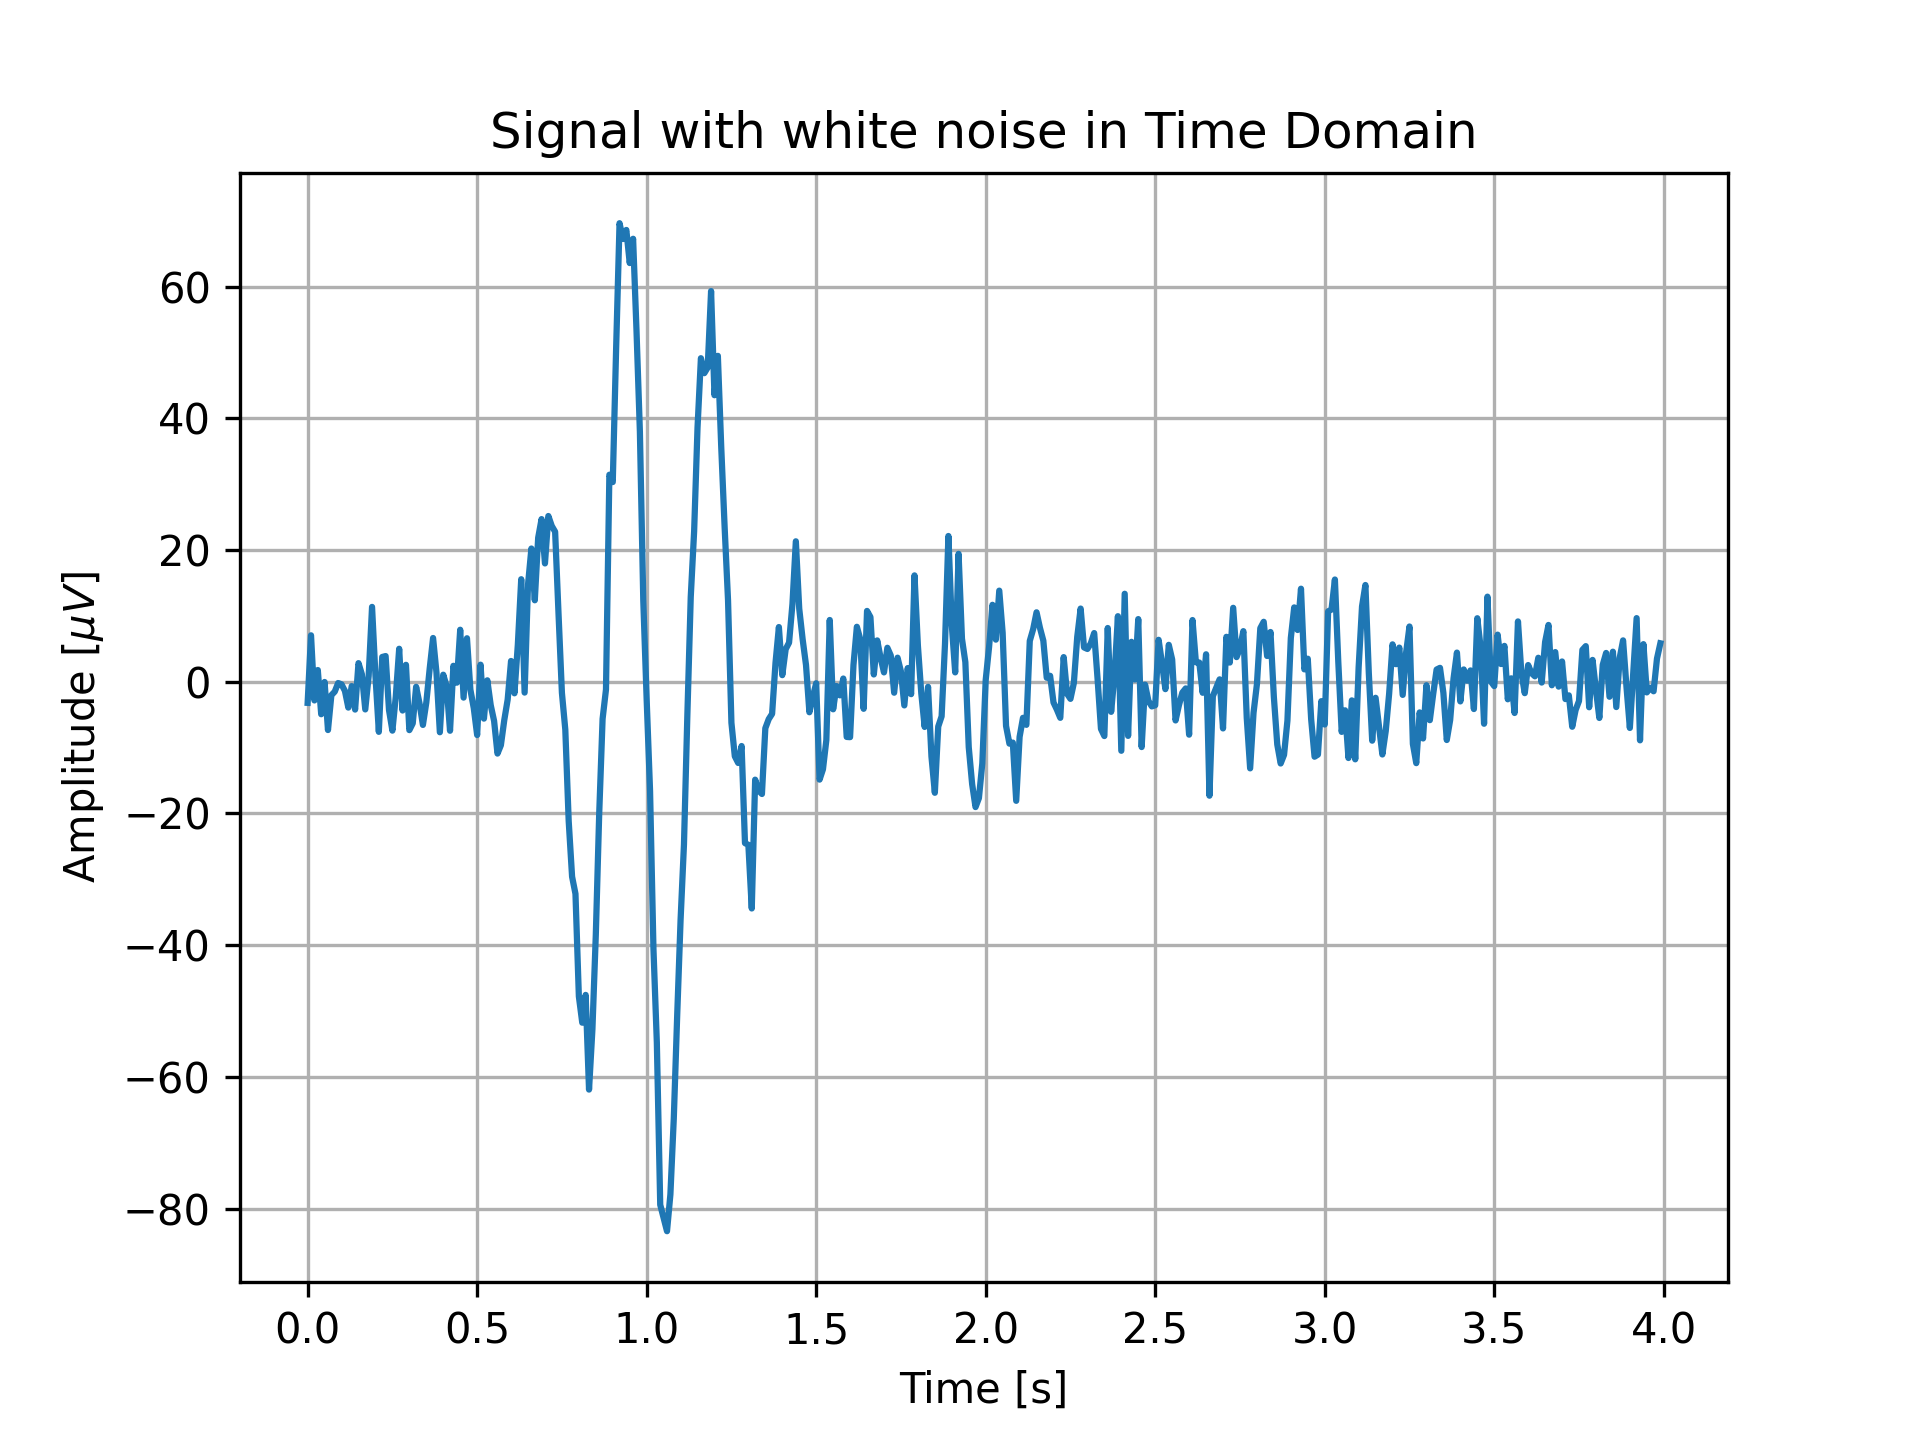
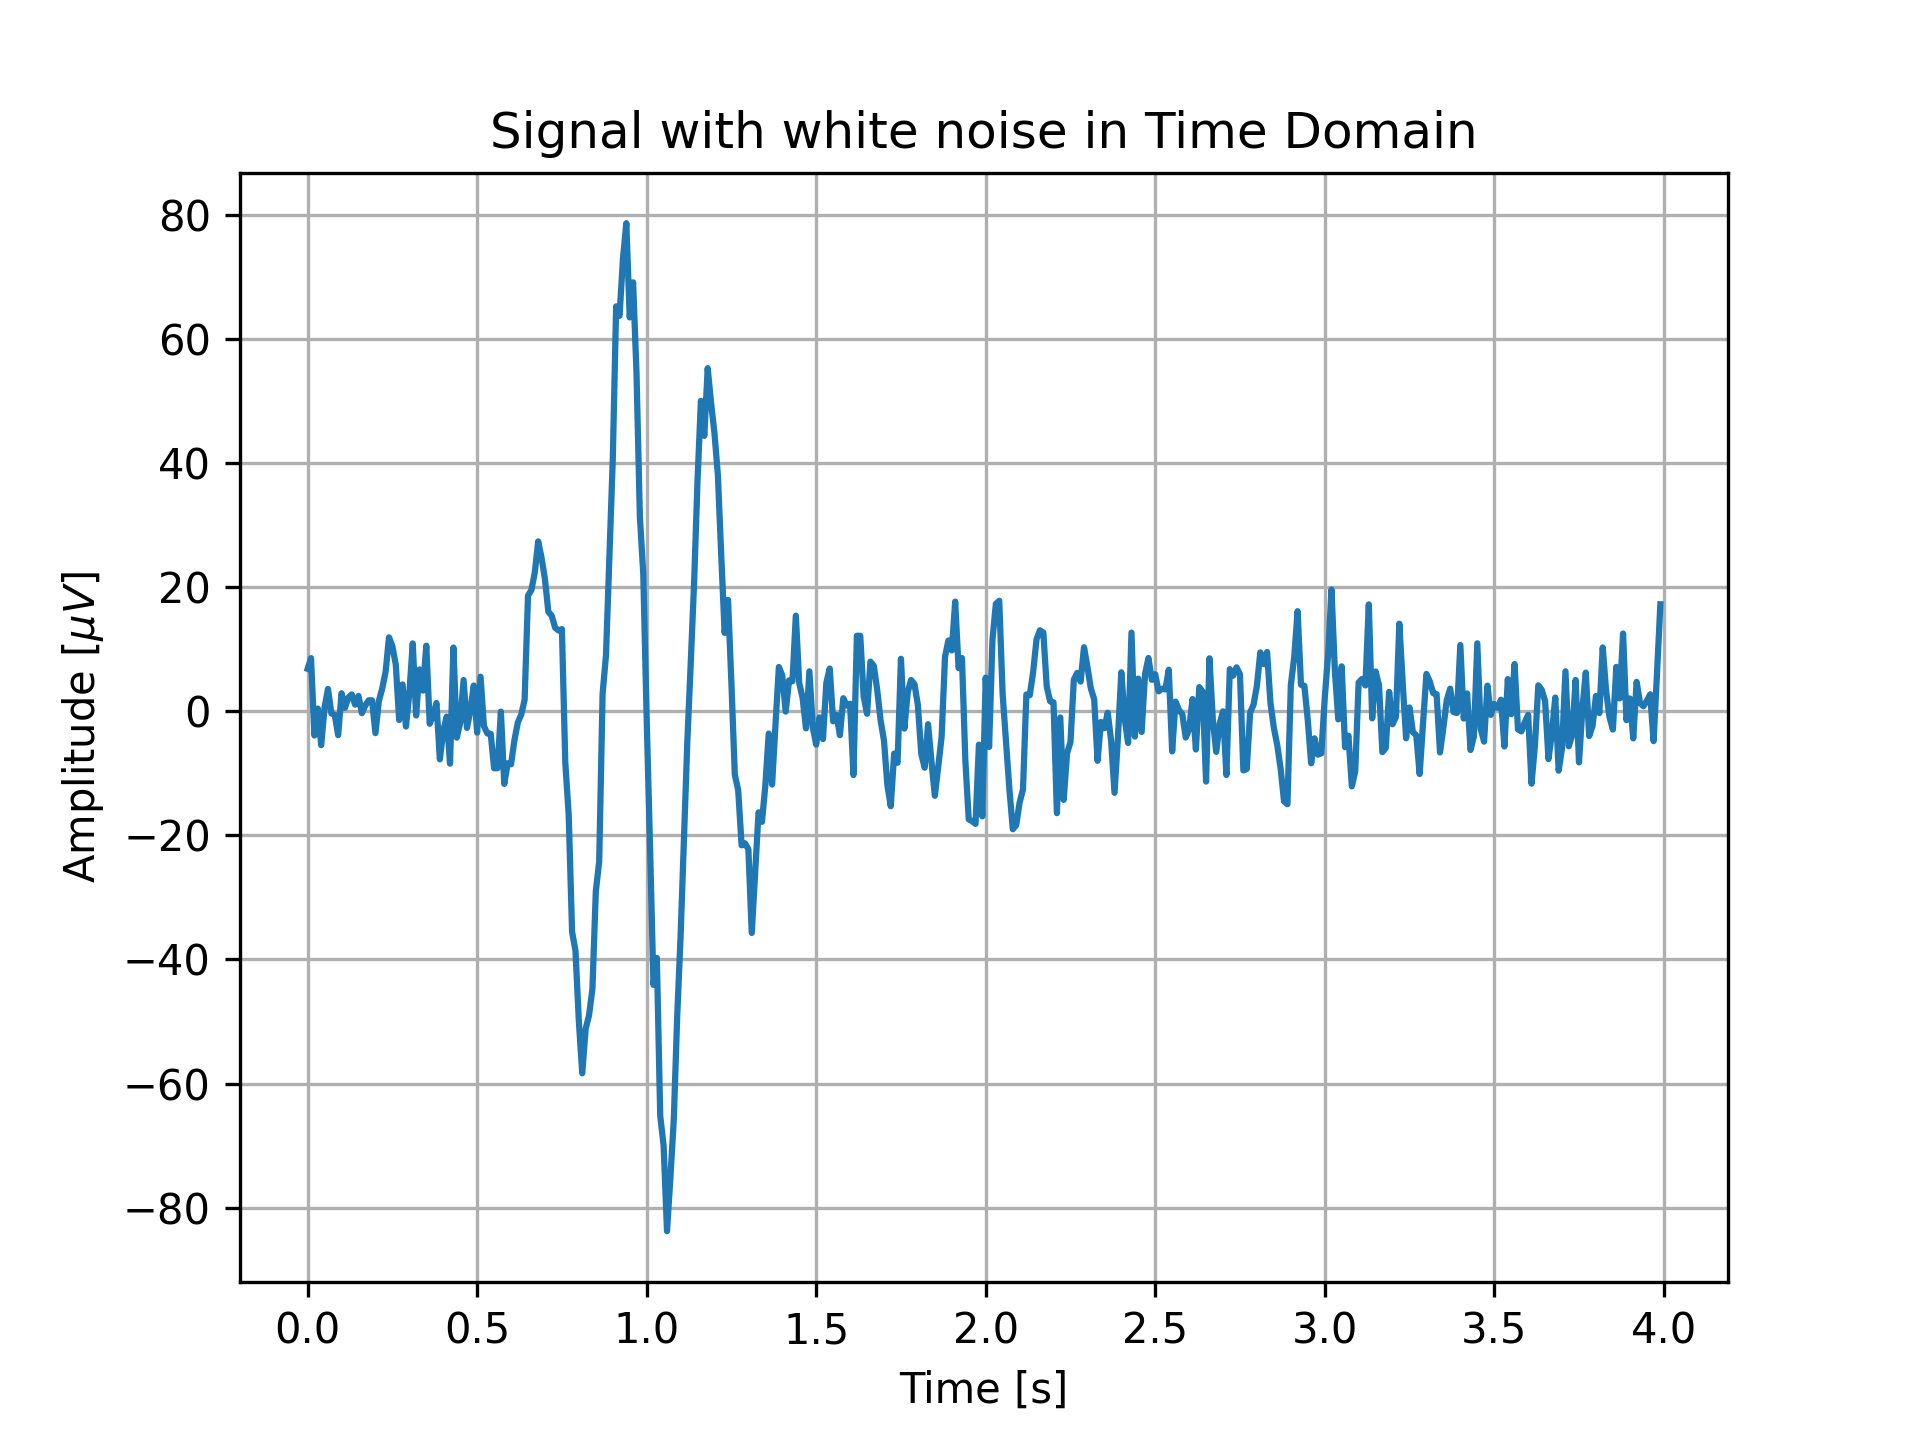
STFT

diff --git a/group_work_1/main.py b/group_work_1/main.py
@@ -1,18 +1,18 @@
-
 from pathlib import Path
 from matplotlib import pyplot as plt
-from scipy.signal import chirp
+from scipy.signal import chirp, stft
 import numpy as np
 
 import pywt
 
-def wavelet(x, fs, tag = ""):
+
+def wavelet(x, fs, tag: str = ""):
     plt.figure()
-    scales = np.logspace(1.1,2,400)
-    wavelet = pywt.ContinuousWavelet('cmor1-2')
-    coefficients, frequency = pywt.cwt(x, scales, wavelet, sampling_period=1/fs)
+    scales = np.logspace(1.1, 2, 400)
+    wave = pywt.ContinuousWavelet('cmor1-2')
+    coefficients, frequency = pywt.cwt(x, scales, wave, sampling_period=1/fs)
     plt.pcolormesh(
-        range(len(x)),
+        range(len(x)),  # sample index (kept to match your original)
         frequency,
         np.abs(coefficients),
         shading="auto",
@@ -24,12 +24,49 @@ def wavelet(x, fs, tag = ""):
     plt.colorbar(label="Magnitude")
     plt.grid()
     plt.savefig(f"group_work_1/plots/wt_plot{'_' + '_'.join(tag.split(' ')) if tag else ''}.png", dpi=300)
-    
+
+from scipy.signal import stft
+import numpy as np
+from matplotlib import pyplot as plt
+
+def plot_stft(x: np.ndarray, fs: int, tag: str | None = None,
+              win_sec: float = 1, overlap: float = 0.9, fmax: float = 25.0):
+    # Window & overlap
+    nperseg = max(32, min(len(x), int(win_sec * fs)))
+    noverlap = int(np.clip(overlap, 0, 0.99) * nperseg)
+
+    # Zero-padding to next pow2 for smoother frequency grid
+    nfft = 1 << int(np.ceil(np.log2(nperseg)))
+
+    f, t, Zxx = stft(
+        x, fs=fs, window="hann",
+        nperseg=nperseg, noverlap=noverlap, nfft=nfft,
+        boundary=None, padded=False, detrend=False, return_onesided=True
+    )
+
+    S = np.abs(Zxx)
+
+    plt.figure()
+    plt.pcolormesh(t, f, S, shading="gouraud", cmap="viridis")
+    plt.xlabel("Time [s]")
+    plt.ylabel("Frequency [Hz]")
+    plt.title(f"STFT {f'– {tag}' if tag else ''}")
+    plt.ylim(0, 16)
+    plt.grid()
+    cbar = plt.colorbar()
+    cbar.set_label("Magnitude")
+    plt.tight_layout()
+    plt.savefig(
+        f"group_work_1/plots/stft_plot{'_' + '_'.join(tag.split()) if tag else ''}.png",
+        dpi=300
+    )
+
+
 
 
 def plot_fft(signal: np.ndarray, fs: int, tag: str | None = None):
     n = len(signal)
-    f = np.fft.rfftfreq(n, d=1/fs)
+    f = np.fft.rfftfreq(n, d=1 / fs)
     fft_values = np.fft.rfft(signal)
     magnitude = np.abs(fft_values) / n
 
@@ -40,7 +77,7 @@ def plot_fft(signal: np.ndarray, fs: int, tag: str | None = None):
     plt.title(f"FFT of the Signal {f'with {tag}' if tag else ''}")
     plt.grid()
     plt.savefig(f"group_work_1/plots/fft_plot{'_' + '_'.join(tag.split(' ')) if tag else ''}.png", dpi=300)
-    plt.show(block = False)
+    plt.show(block=False)
 
 
 def plot_signal(t: np.ndarray, signal: np.ndarray, tag: str | None = None):
@@ -51,7 +88,7 @@ def plot_signal(t: np.ndarray, signal: np.ndarray, tag: str | None = None):
     plt.title(f"Signal {f'with {tag}' if tag else ''} in Time Domain")
     plt.grid()
     plt.savefig(f"group_work_1/plots/signal_plot{'_' + '_'.join(tag.split(' ')) if tag else ''}.png", dpi=300)
-    plt.show(block = False)
+    plt.show(block=False)
 
 
 def main():
@@ -59,7 +96,7 @@ def main():
     if not filepath.exists():
         print(f"File {filepath} does not exist.")
         return
-    
+
     fs = 100  # Sampling frequency
 
     signal = np.loadtxt(filepath, delimiter=",")
@@ -75,46 +112,53 @@ def main():
     end_frequency = 10  # Hz
     chirp_duration = t[-1]  # Duration of the chirp signal
     chirp_amplitude = 10e-6  # 10 microvolts
-    
-    chirp_signal = chirp_amplitude * chirp(t, f0=start_frequency, f1=end_frequency, t1=chirp_duration, method="linear")
-    
+
+    chirp_signal = chirp_amplitude * chirp(
+        t, f0=start_frequency, f1=end_frequency, t1=chirp_duration, method="linear"
+    )
+
     # Raw signal
     plot_signal(t, signal)
     plot_fft(signal, fs)
     wavelet(signal, fs)
+    plot_stft(signal, fs)
 
     # Offset analysis
     signal_with_offset = signal + offset_amplitude  # Adding DC offset
     plot_signal(t, signal_with_offset, tag="offset")
     plot_fft(signal_with_offset, fs, tag="offset")
     wavelet(signal_with_offset, fs, tag="offset")
-    
+    plot_stft(signal_with_offset, fs, tag="offset")
+
     # White noise analysis
     signal_with_noise = signal + np.random.normal(mu, sigma, size=signal.shape)  # Adding white noise
-
     plot_signal(t, signal_with_noise, tag="white noise")
     plot_fft(signal_with_noise, fs, tag="white noise")
     wavelet(signal_with_noise, fs, tag="white noise")
+    plot_stft(signal_with_noise, fs, tag="white noise")
 
     # White noise + offset analysis
     signal_with_noise_and_offset = signal_with_noise + offset_amplitude  # Adding DC offset
     plot_signal(t, signal_with_noise_and_offset, tag="white noise and offset")
     plot_fft(signal_with_noise_and_offset, fs, tag="white noise and offset")
     wavelet(signal_with_noise_and_offset, fs, tag="white noise and offset")
+    plot_stft(signal_with_noise_and_offset, fs, tag="white noise and offset")
 
     # Chirp analysis
     signal_with_chirp = signal + chirp_signal  # Adding chirp signal
     plot_signal(t, signal_with_chirp, tag="chirp")
     plot_fft(signal_with_chirp, fs, tag="chirp")
     wavelet(signal_with_chirp, fs, tag="chirp")
+    plot_stft(signal_with_chirp, fs, tag="chirp")
 
-    plt.figure()
-    plt.plot(t, signal * 1e6)  # Convert to microvolts
-    plt.xlabel("Time [s]")
-    plt.ylabel("Amplitude [$\\mu V$]")
-    plt.title("Signal 1")
-    plt.grid()
-    plt.show()
+    # plt.figure()
+    # plt.plot(t, signal * 1e6)  # Convert to microvolts
+    # plt.xlabel("Time [s]")
+    # plt.ylabel("Amplitude [$\\mu V$]")
+    # plt.title("Signal 1")
+    # plt.grid()
+    # plt.show()
+
 
 if __name__ == "__main__":
     main()
